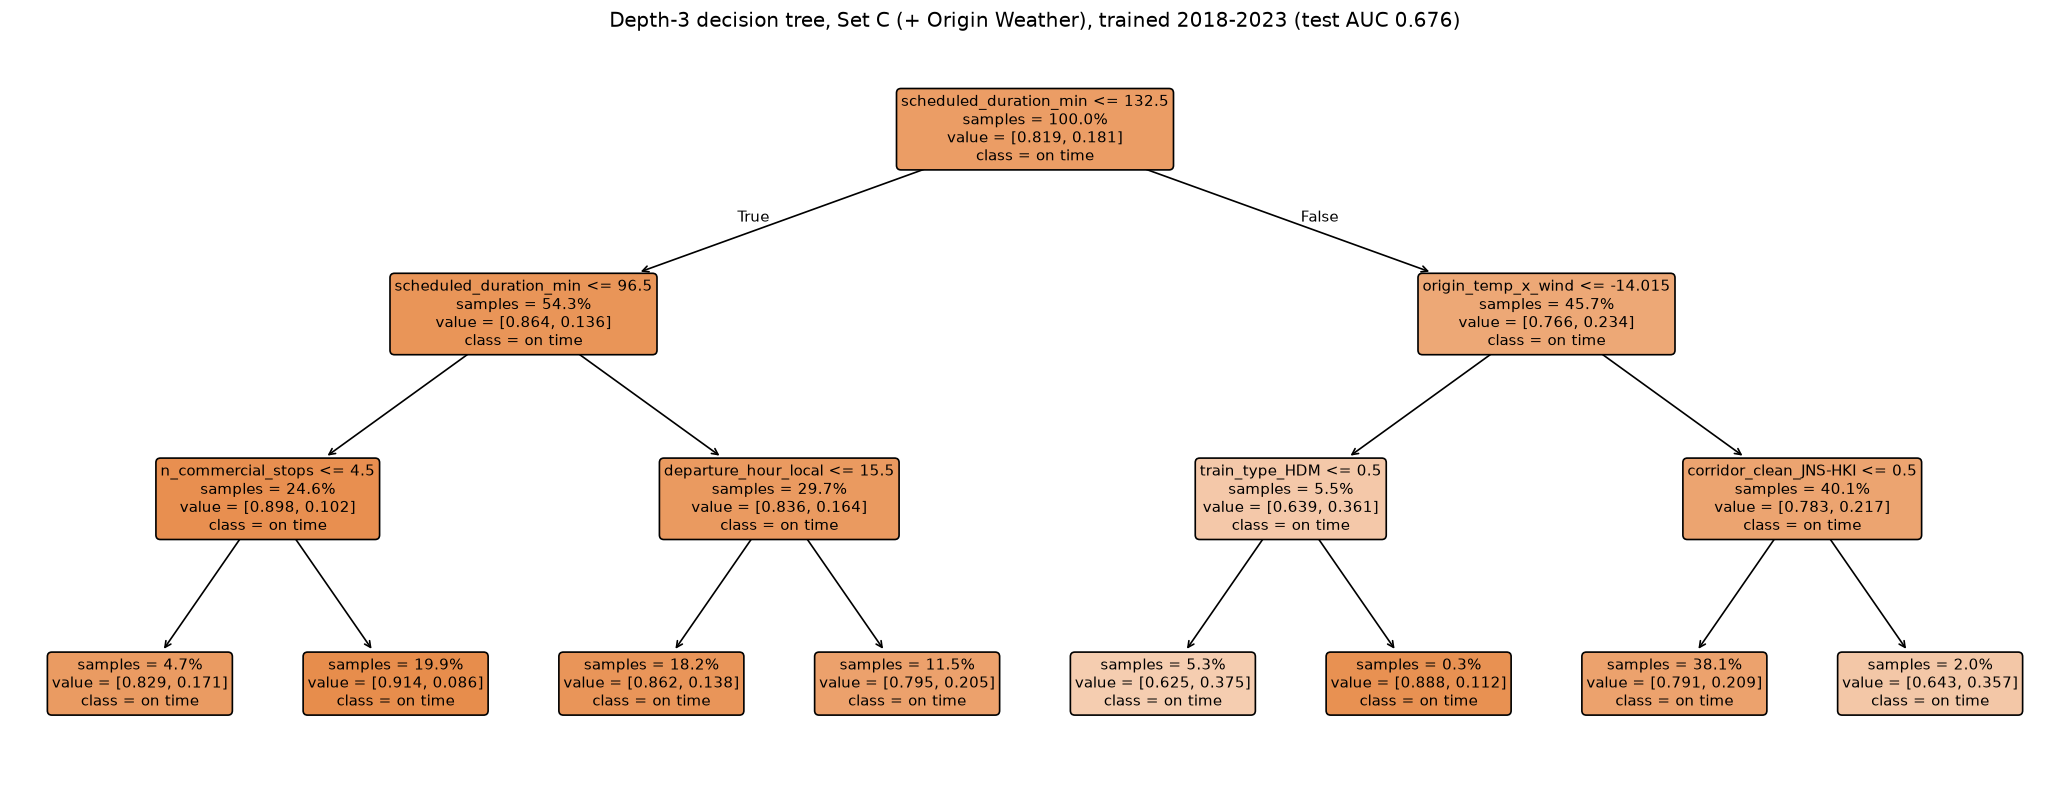
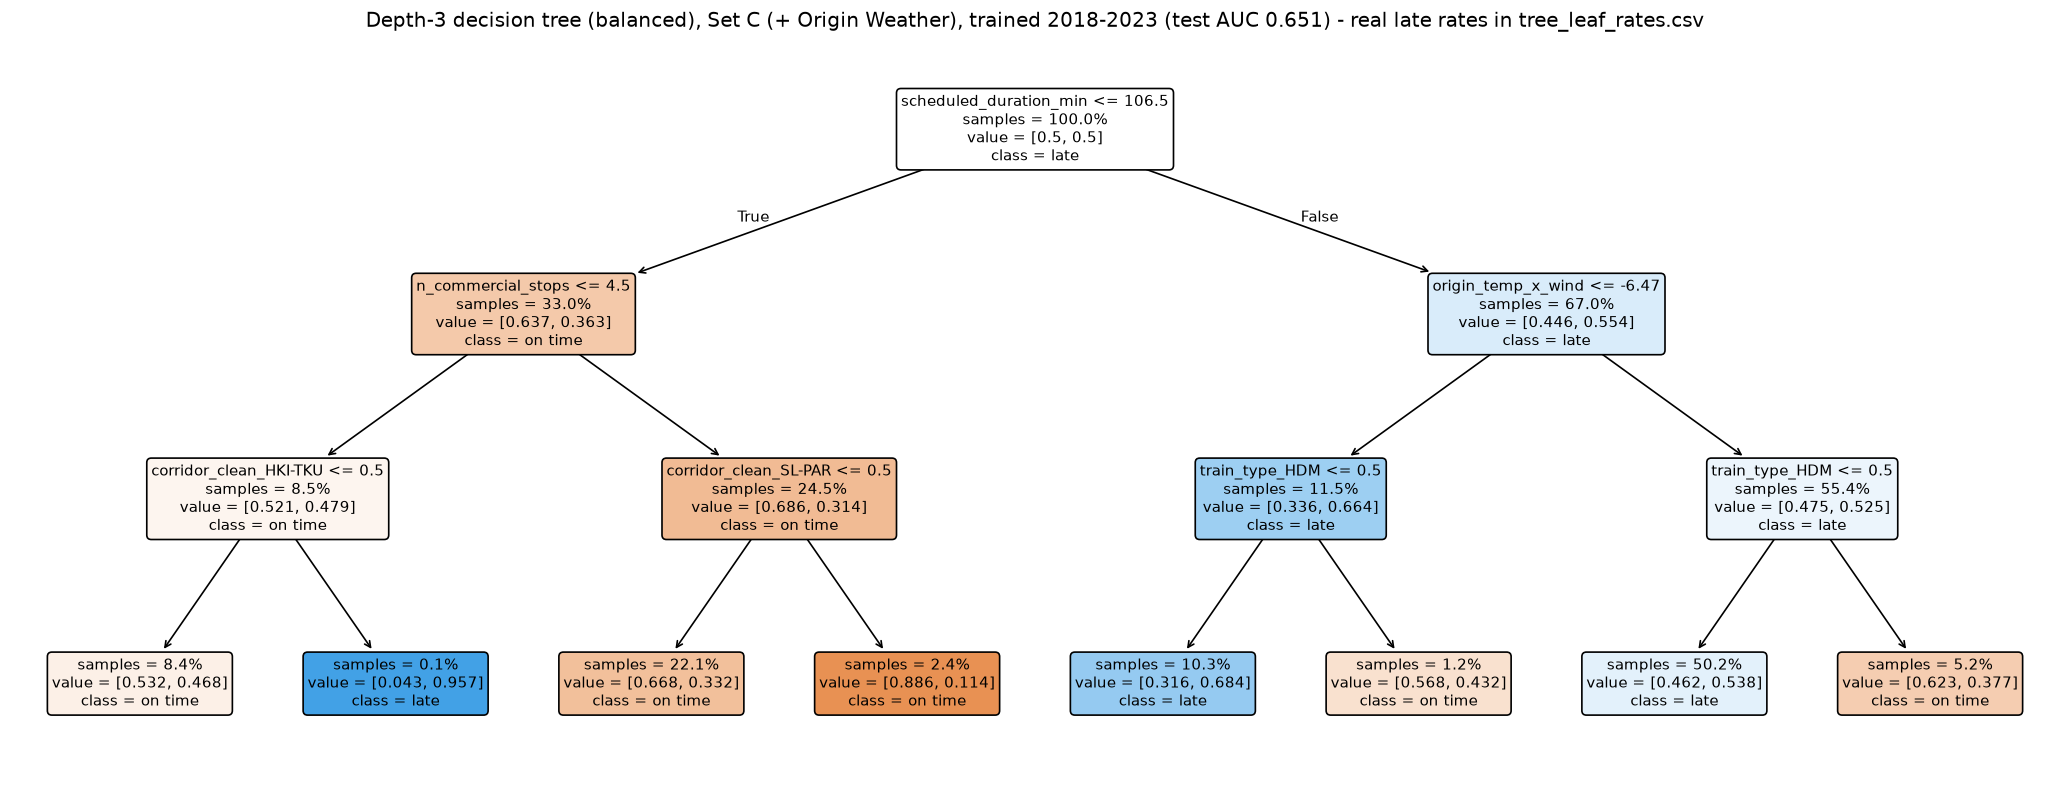
Balanced shallow tree with real leaf late rates

diff --git a/notebook_modeling_v3.py b/notebook_modeling_v3.py
@@ -302,17 +302,28 @@ def _(
     test_df,
     train_df,
 ):
-    # small unweighted tree so each leaf shows the real share of late trains, Set C = known at departure
+    # unweighted version only predicted "on time" in every leaf (no leaf has > 50% late), so balanced like the others
     _label, _cols = feature_sets["tree"][2]
-    _tree = DecisionTreeClassifier(max_depth=3, min_samples_leaf=200, random_state=42)
+    _tree = DecisionTreeClassifier(max_depth=3, min_samples_leaf=200, class_weight="balanced", random_state=42)
     _tree.fit(train_df[_cols], train_df["is_late"].astype(int))
     _auc = roc_auc_score(test_df["is_late"].astype(int), _tree.predict_proba(test_df[_cols])[:, 1])
-    pd.DataFrame([{"tree": "depth 3, leaf 200, unweighted", "Feature Set": _label, "test ROC-AUC": round(float(_auc), 4)}]).to_csv(
+    pd.DataFrame([{"tree": "depth 3, leaf 200, balanced", "Feature Set": _label, "test ROC-AUC": round(float(_auc), 4)}]).to_csv(
         "outputs/it5/tree_rules_summary.csv", index=False
     )
 
     with open("outputs/it5/tree_rules.txt", "w") as _f:
-        _f.write(export_text(_tree, feature_names=list(_cols), show_weights=True))
+        _f.write(export_text(_tree, feature_names=list(_cols)))
+
+    # the plot shows re-weighted proportions, so save the real late rate per leaf too
+    _train_leaf = pd.DataFrame({"leaf": _tree.apply(train_df[_cols]), "late": train_df["is_late"].astype(int).to_numpy()})
+    _test_leaf = pd.DataFrame({"leaf": _tree.apply(test_df[_cols]), "late": test_df["is_late"].astype(int).to_numpy()})
+    _leaf_rates = _train_leaf.groupby("leaf").agg(n_train=("late", "size"), late_rate_train=("late", "mean"))
+    _leaf_rates["late_rate_test"] = _test_leaf.groupby("leaf")["late"].mean()
+    _leaf_rates["n_test"] = _test_leaf.groupby("leaf")["late"].size()
+    _leaf_rates["predicted"] = ["late" if _tree.tree_.value[i][0][1] > _tree.tree_.value[i][0][0] else "on time" for i in _leaf_rates.index]
+    _leaf_rates = _leaf_rates.round(3).sort_values("late_rate_train", ascending=False)
+    _leaf_rates.to_csv("outputs/it5/tree_leaf_rates.csv")
+    print(_leaf_rates)
 
     _fig, _ax = plt.subplots(figsize=(22, 8))
     plot_tree(
@@ -326,7 +337,7 @@ def _(
         fontsize=9,
         ax=_ax,
     )
-    _ax.set_title(f"Depth-3 decision tree, {_label}, trained 2018-2023 (test AUC {_auc:.3f})")
+    _ax.set_title(f"Depth-3 decision tree (balanced), {_label}, trained 2018-2023 (test AUC {_auc:.3f}) - real late rates in tree_leaf_rates.csv")
     _fig.savefig("outputs/it5/tree_rules.png", bbox_inches="tight", dpi=120)
     _fig
     return
